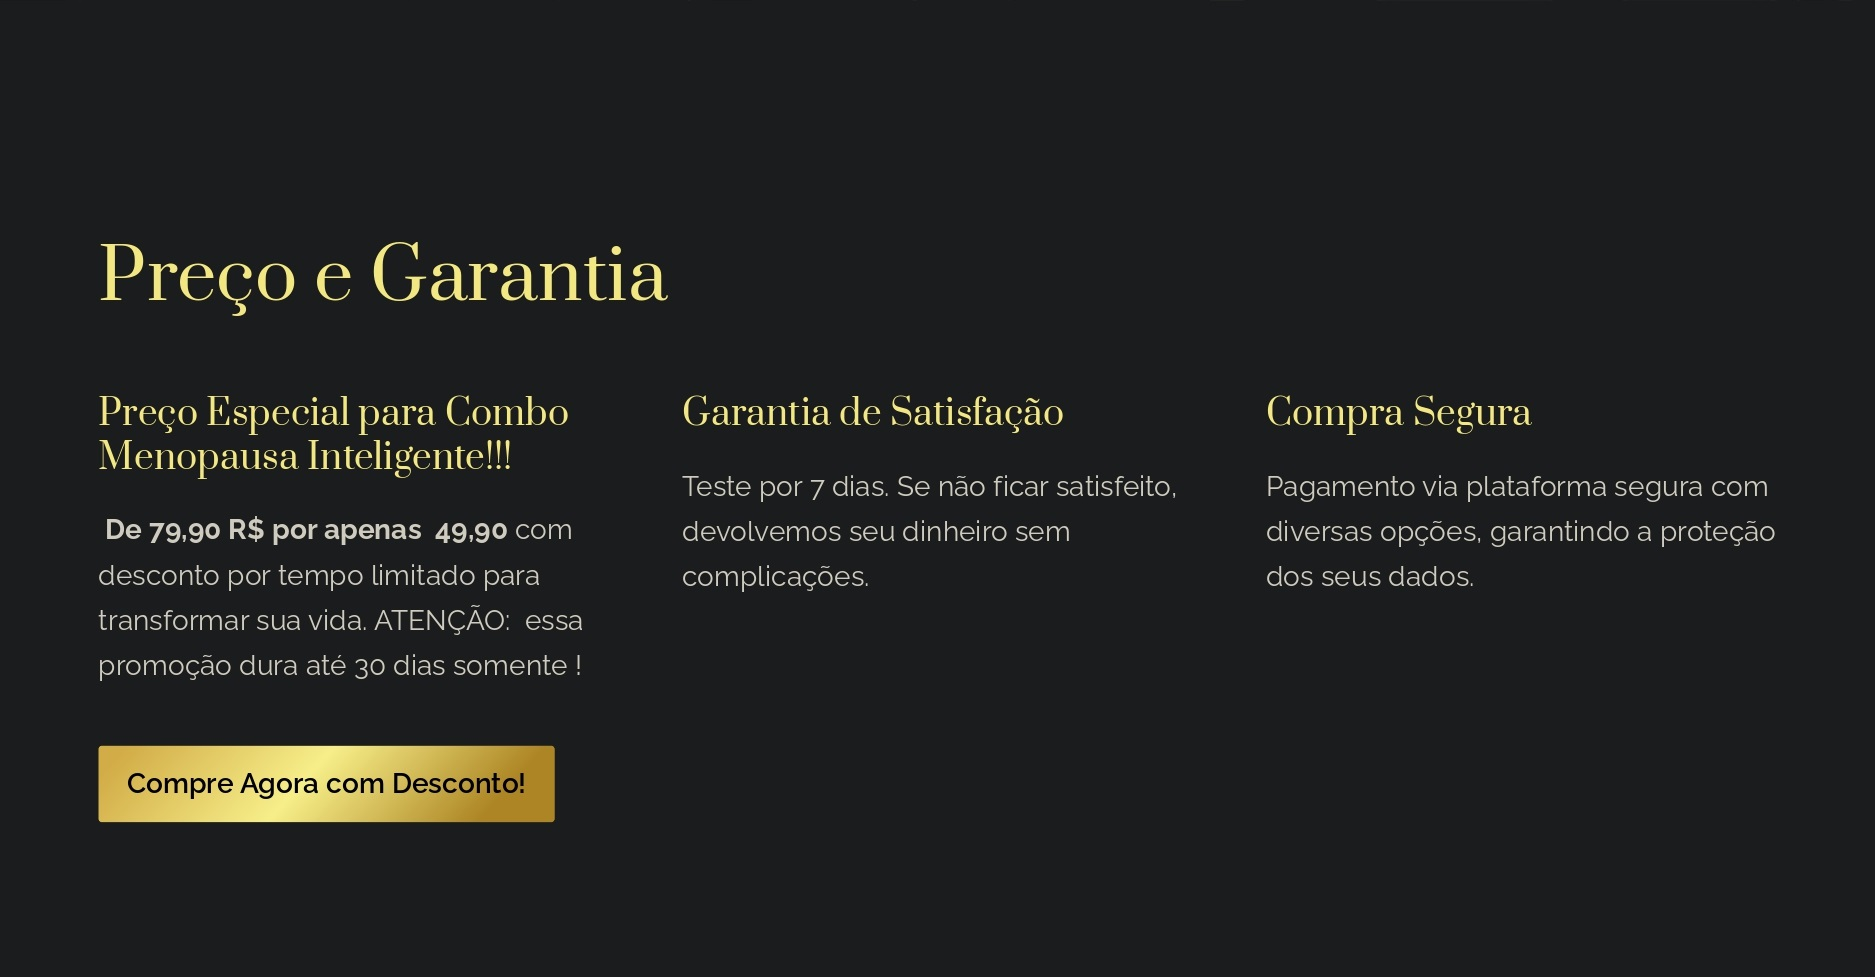
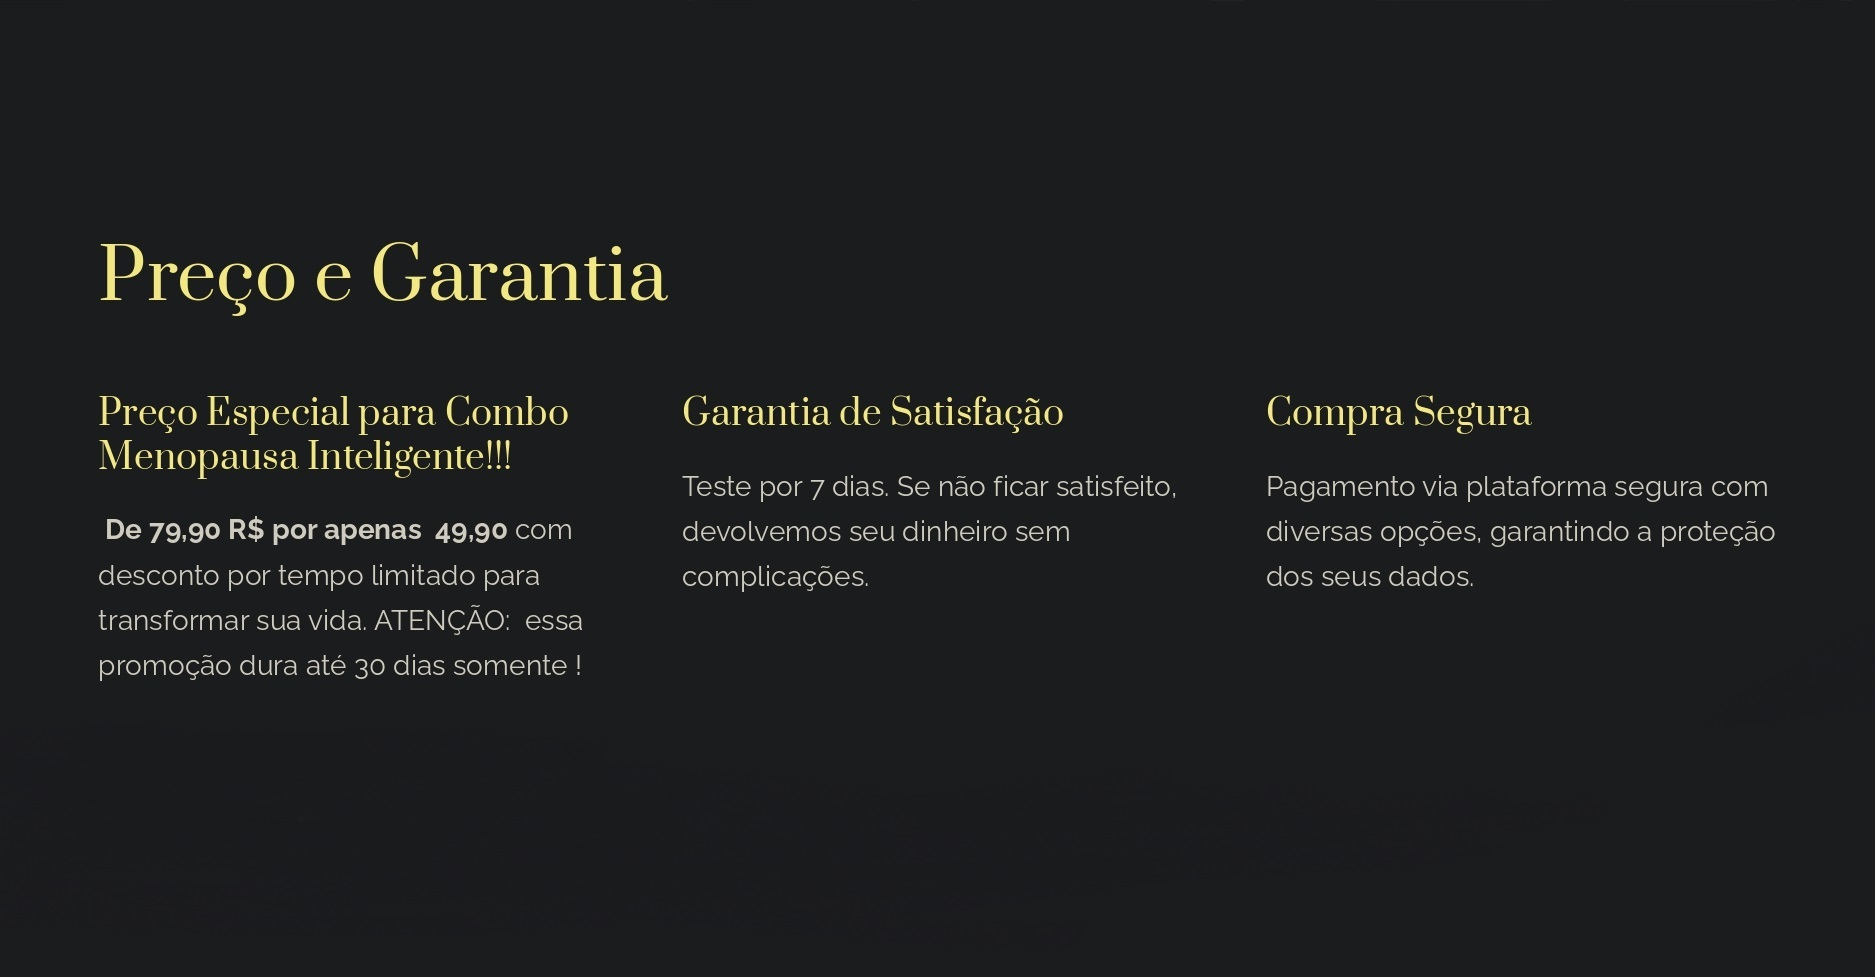
deletedFaultyCheckoutAndAddedUi

Changed region(s): [[0.0309, 0.7369, 0.3093, 0.8598]]

diff --git a/src/app/page.js b/src/app/page.js
@@ -7,70 +7,54 @@ import Script from 'next/script';
 
 export default function Home() {
   return (
-    <div className="w-full flex flex-col items-center justify-center">
-      <>
-      <Script
-        id="mcjs"
-        strategy="afterInteractive"
-        dangerouslySetInnerHTML={{
-          __html: `
-            !function(c,h,i,m,p){
-              m=c.createElement(h),
-              p=c.getElementsByTagName(h)[0],
-              m.async=1,
-              m.src=i,
-              p.parentNode.insertBefore(m,p)
-            }(document,"script","https://chimpstatic.com/mcjs-connected/js/users/7f8eb8ea8bee7abfd177c6822/ac318314b371f9cc8b575433e.js");
-          `
-        }}
-      />
-      <div className="w-full flex flex-col items-center justify-center">
-        {/* your images and content here */}
-      </div>
-    </>
+    <div className="w-full flex flex-col items-center justify-center">     
 
       {/* Images */}      
         <div>
-          <img src="/images/e1.jpg" className="w-full h-full object-cover" />
-          <img src="/images/e2.jpg" className="w-full h-full object-cover" />
-          <img src="/images/e3.jpg" className="w-full h-full object-cover" />
-          <img src="/images/e4.jpg" className="w-full h-full object-cover" />
-          <img src="/images/e5.jpg" className="w-full h-full object-cover" />
-          <img src="/images/e6.jpg" className="w-full h-full object-cover" />
           <img src="/images/imageWoman1.jpg" className="w-full h-full object-cover" />
-          <img src="/images/imageAlimentação2.jpg" className="w-full h-full object-cover" />
-          <img src="/images/imageNewPhase3.jpg" className="w-full h-full object-cover" />
-          <div className= "h-40 flex items-center justify-center">                  
-         <Link href="/email">
+          <img src="/images/e6.jpg" className="w-full h-full object-cover" />          
+          <img src="/images/e3.jpg" className="w-full h-full object-cover" />
+          <img src="/images/imageNewPhase3.jpg" className="w-full h-full object-cover" /> 
+          <div className= "h-40 flex items-center justify-center">
+          <Link href="https://drive.google.com/file/d/14WxGsejZ5voyvTh6jUvWVnHVQKvL64Dx/view?usp=sharing">
           <button className="bg-gradient-to-r from-yellow-400 via-yellow-300 to-yellow-400 text-gray-800 font-bold text-lg px-6 py-3 rounded-lg shadow-md 
             hover:brightness-110 transition inline-block text-center">
             Quero meu E-BOOK GRÁTIS
           </button>
         </Link>
-
         </div>
-          <img src="/images/imageSet1.jpg" className="w-full h-full object-cover" />
-          <img src="/images/imageSet2.jpg" className="w-full h-full object-cover" />
+          <img src="/images/e4.jpg" className="w-full h-full object-cover" />          
+          <img src="/images/e5.jpg" className="w-full h-full object-cover" />          
+          <img src="/images/imageAlimentação2.jpg" className="w-full h-full object-cover" />
+          
+                            
+         
+
+        
+          <img src="/images/imageSet1.jpg" className="w-full h-full object-cover" />          
           <img src="/images/imageSet3.jpg" className="w-full h-full object-cover" />
           <img src="/images/imageSet4.png" className="w-full h-full object-cover" />
           {/* Replace background or insert <img /> inside as needed */}          
         </div>
       
 
-      {/* Rose pink link section */}
-      <div className="w-full h-32 flex items-center justify-center bg-gray-950">
-        <Link href="https://pay.kiwify.com.br/oIxIhMX" className="text-[#ffcf40] text-3xl font-semibold underline">
-          Quero meu ebook 
-        </Link>
+      {/* Rose pink link section */}      
+      <div className="w-full h-30 flex items-center justify-center bg-black">
+        <button
+          className="bg-gradient-to-r from-yellow-400 via-yellow-300 to-yellow-400 text-gray-800 font-bold text-lg px-6 py-3 rounded-lg shadow-md hover:brightness-110 transition"
+          onClick={() => {
+            // Replace this with your own navigation logic
+            window.location.href = 'https://pay.kiwify.com.br/oIxIhMX';
+          }}
+        >
+          Quero meu ebook
+        </button>
       </div>
-
       {/* Images */}
         <div>
         <img src="/images/imageSet5.jpg" className="w-full h-full object-cover" />
-        <img src="/images/imageSet6.jpg" className="w-full h-full object-cover" />
-        </div>
-      
-
+        <img src="/images/e2.jpg" className="w-full h-full object-cover" />
+        </div>      
       <div className="w-full h-30 flex items-center justify-center bg-black">
         <button
           className="bg-gradient-to-r from-yellow-400 via-yellow-300 to-yellow-400 text-gray-800 font-bold text-lg px-6 py-3 rounded-lg shadow-md hover:brightness-110 transition"
@@ -98,12 +82,15 @@ export default function Home() {
         </button>
         </div>
       </div>
-      <div className="w-full h-32 flex items-center justify-center bg-gray-950">© 2025 MkSOU. Todos os direitos reservados.
-        Este e-book é um material informativo, com foco em autocuidado e bem-estar durante a menopausa. Ele não substitui orientação médica ou tratamento profissional.
+      <div className="w-full h-40 flex items-center justify-center bg-gray-950 font-bold text-lg px-6 py-3 rounded-lg shadow-md 
+            hover:brightness-110 transition text-center"> © 2025 MkSOU. Todos os direitos reservados.
+        Este e-book é um material informativo, com foco em autocuidado e bem-estar durante a menopausa. Ele não substitui orientação médica ou tratamento profissional.         
         Venda e entrega realizadas com segurança pela plataforma Kiwify  - Seu pagamento é 100% seguro.
-        Dúvidas, sugestões ou suporte: ecommercmkssouza@gmail.com
-        Endereço: QI 15, CEP 72135-150
-     </div>
+      </div>
+     <div className = "h-20">
+        <h1>Dúvidas, sugestões ou suporte: ecommercmkssouza@gmail.com
+        Endereço: QI 15, CEP 72135-150</h1>
+        </div>
     </div>
   );
 }
